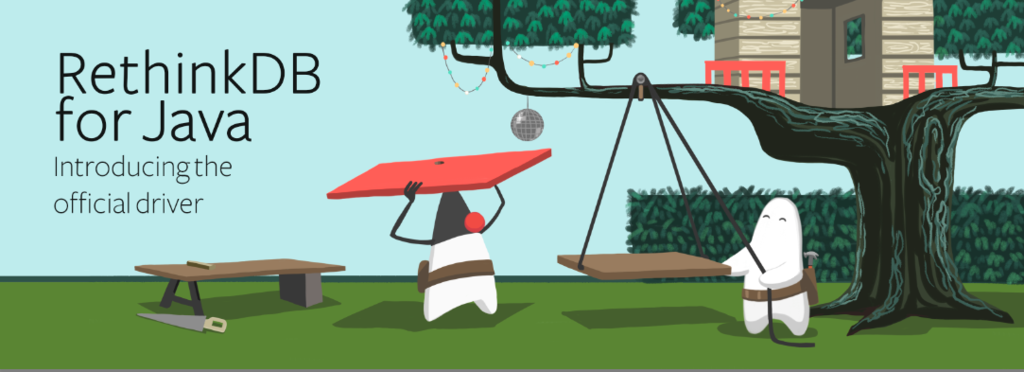
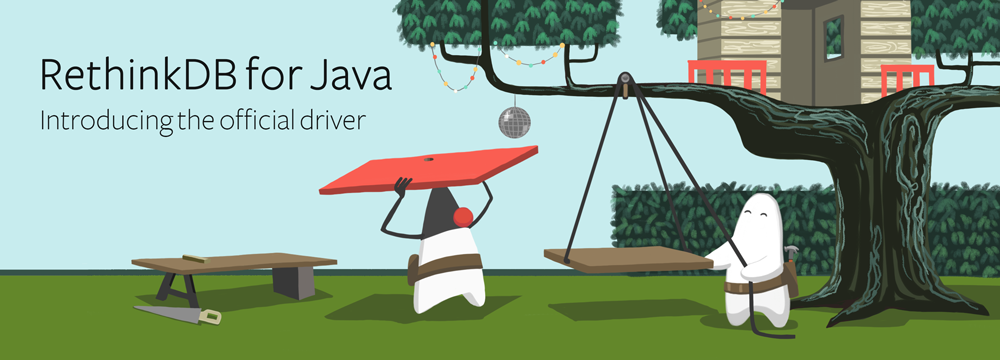
Updates for the Java driver post.

diff --git a/_posts/2015-12-09-official-java-driver.md b/_posts/2015-12-09-official-java-driver.md
@@ -3,7 +3,7 @@ layout: post
 title: "Introducing the official RethinkDB Java client driver"
 author: Ryan Paul
 author_github: segphault
-hero_image: 2015-11-23-docker-networking.md 
+hero_image: 2015-12-09-java-driver-banner.png
 ---
 
 Today, we're pleased to announce the release of our Java client driver for
@@ -53,7 +53,7 @@ in Java:
 ```java
 RethinkDB r = RethinkDB.r;
 Connection conn = r.connection()
-                      .hostname("localhost").port(28015).connect();
+                   .hostname("localhost").port(28015).connect();
 
 // Find the odd numbers, multiply each by 2, and add the total
 Long output = r.range(10)
